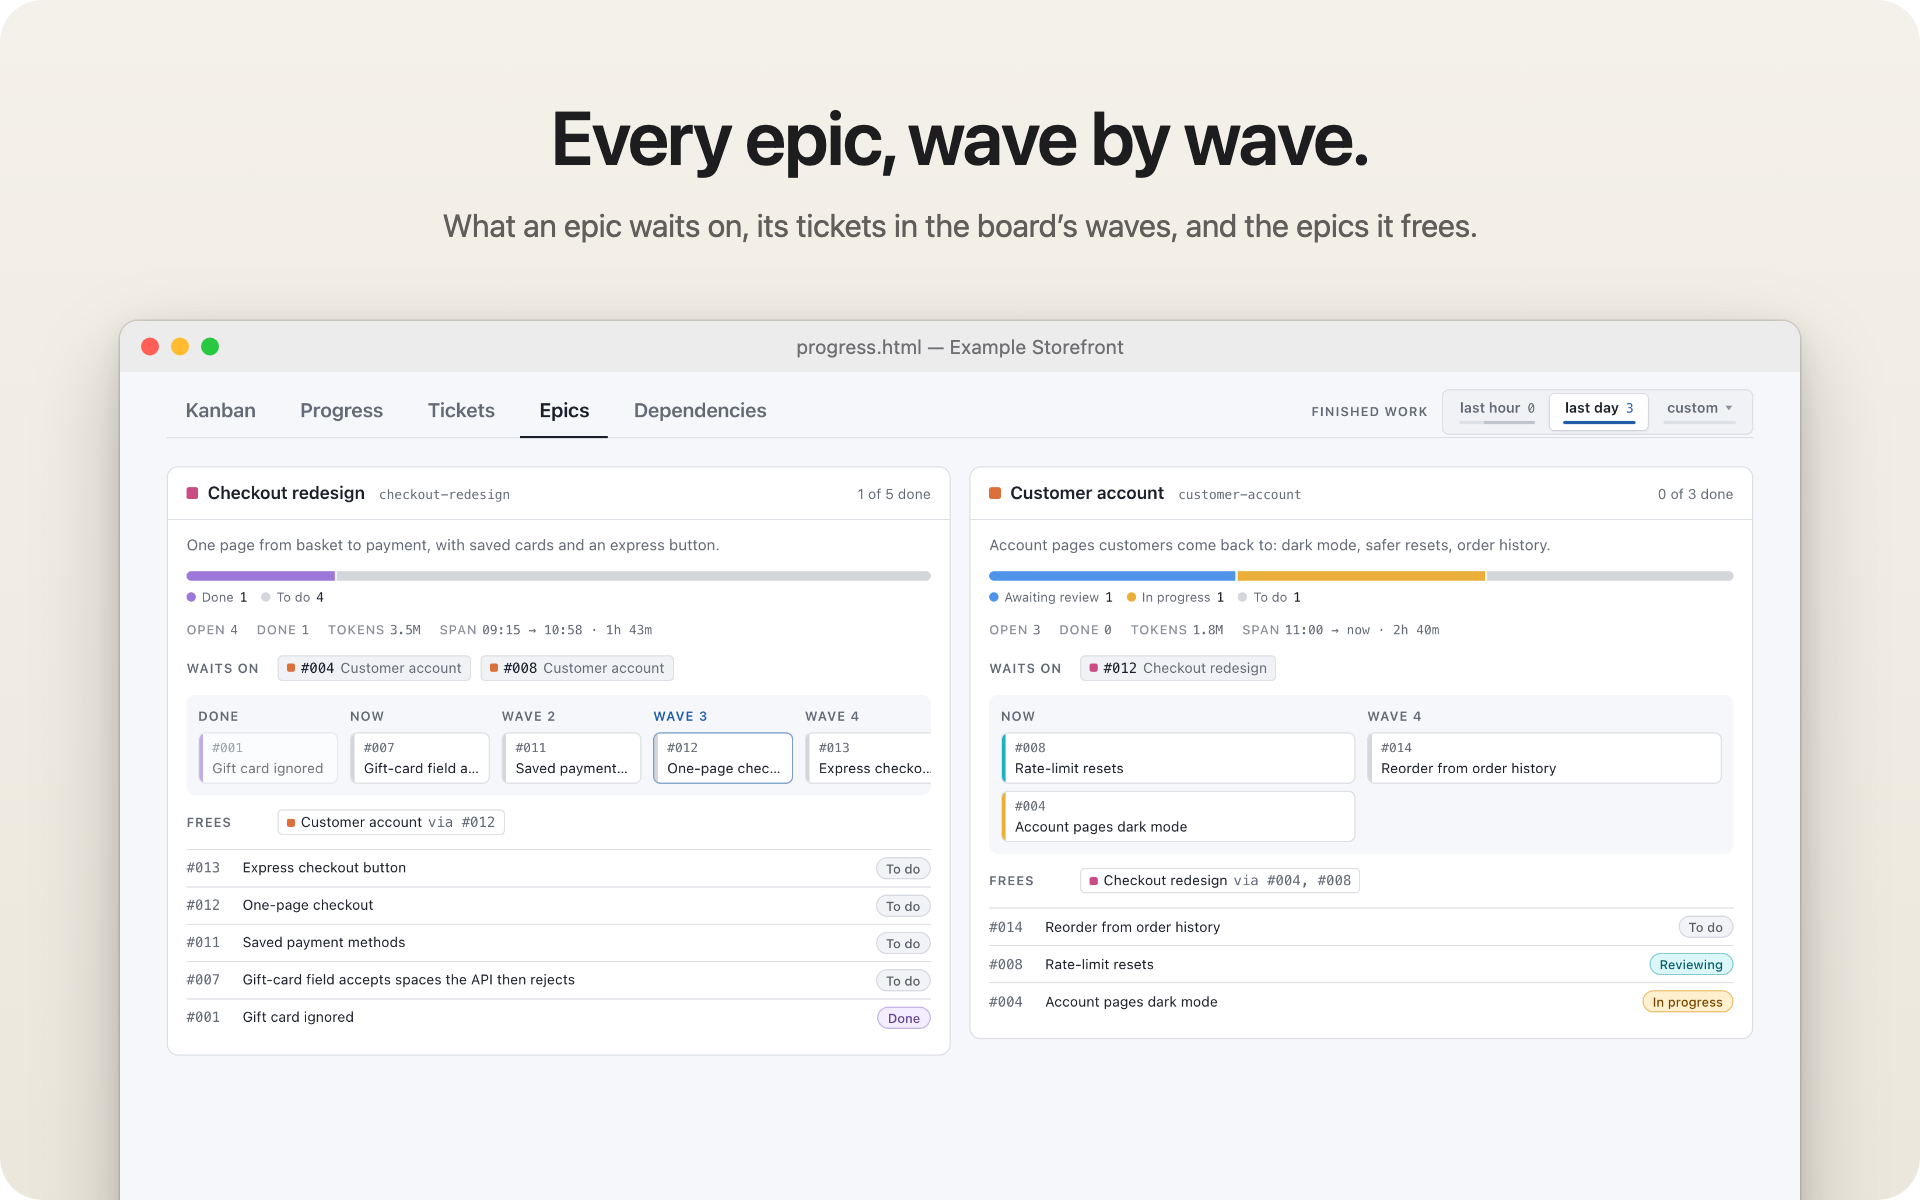
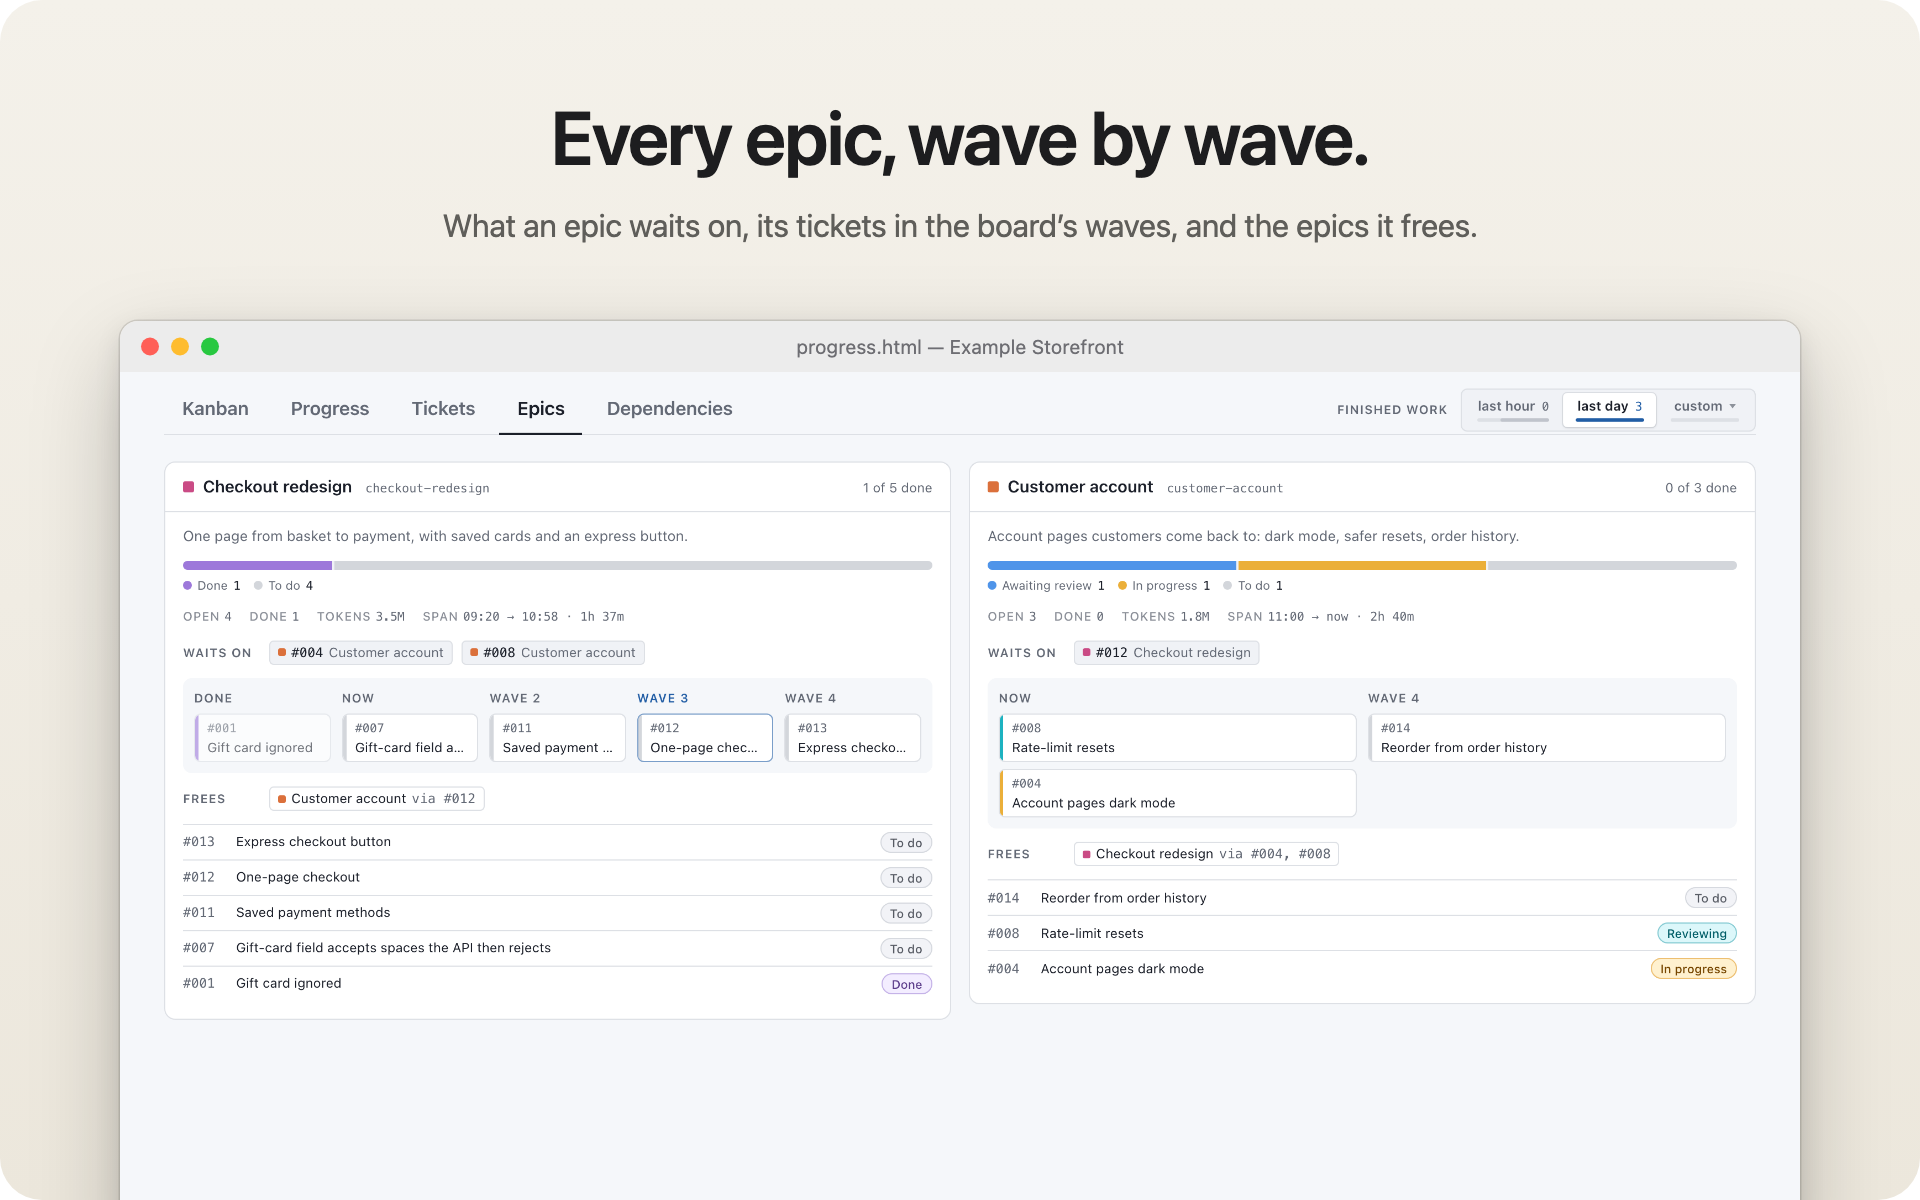
Shoot the README epic waves panel wide enough that every wave column fits its strip

diff --git a/.readme-graphics/compose.py b/.readme-graphics/compose.py
@@ -47,6 +47,8 @@ DEPENDENCIES_HOVERED_NODE_SELECTOR = '.ap-dependency-node[data-open-ticket="012"
 DEPENDENCIES_HOVER_SCRIPT = (f"(async () => {{ document.querySelector('{DEPENDENCIES_HOVERED_NODE_SELECTOR}').dispatchEvent(new PointerEvent('pointerover', {{ bubbles: true }}));"
                              " await new Promise((resolve) => setTimeout(resolve, 600)); return true; })()")
 EPICS_FIRST_CARD_SELECTOR = '#ap-epics > .ap-card:first-child'
+# Wide enough that the Checkout redesign card's waves strip holds all five 120px wave columns, so none sits behind its scroll edge.
+EPICS_VIEWPORT_WIDTH = 1520
 GRAPH_TOP_MARGIN = 13
 GRAPH_BOTTOM_PADDING = 24
 
@@ -184,7 +186,7 @@ def base_jobs(build):
         jobs.append({**common, 'name': f'dependencies-{theme}', 'output': f'{build}/shots/dependencies-{theme}.png', 'localStorageEntries': page_state(theme, 'dependencies'),
                      'actionScript': DEPENDENCIES_HOVER_SCRIPT, 'fullPage': True,
                      'measure': {'tabBar': '.ap-tab-bar', 'graph': '#ap-dependencies'}})
-        jobs.append({**common, 'name': f'epics-{theme}', 'output': f'{build}/shots/epics-{theme}.png', 'localStorageEntries': page_state(theme, 'epics'), 'fullPage': True,
+        jobs.append({**common, 'width': EPICS_VIEWPORT_WIDTH, 'name': f'epics-{theme}', 'output': f'{build}/shots/epics-{theme}.png', 'localStorageEntries': page_state(theme, 'epics'), 'fullPage': True,
                      'measure': {'tabBar': '.ap-tab-bar', 'firstCard': EPICS_FIRST_CARD_SELECTOR}})
         jobs.append({**common, 'name': f'detail-{theme}', 'output': f'{build}/shots/detail-{theme}.png', 'localStorageEntries': page_state(theme, 'progress'),
                      'actionScript': f"document.querySelector('#ap-task-{DETAIL_TASK_IDENTIFIER}').click(); true",
@@ -213,18 +215,22 @@ def crops(measurements):
         'kanban': [0, round(kanban['tabBar']['top'] - KANBAN_TOP_MARGIN), VIEWPORT_WIDTH, round(kanban['board']['bottom'] + KANBAN_BOTTOM_PADDING)],
         'kanban-waves': [0, round(kanban_waves['tabBar']['top'] - KANBAN_TOP_MARGIN), VIEWPORT_WIDTH, round(kanban_waves['board']['bottom'] + KANBAN_BOTTOM_PADDING)],
         'dependencies': [0, round(dependencies['tabBar']['top'] - GRAPH_TOP_MARGIN), VIEWPORT_WIDTH, round(dependencies['graph']['bottom'] + GRAPH_BOTTOM_PADDING)],
-        'epics': [0, round(epics['tabBar']['top'] - GRAPH_TOP_MARGIN), VIEWPORT_WIDTH, round(epics['firstCard']['bottom'] + GRAPH_BOTTOM_PADDING)],
+        'epics': [0, round(epics['tabBar']['top'] - GRAPH_TOP_MARGIN), EPICS_VIEWPORT_WIDTH, round(epics['firstCard']['bottom'] + GRAPH_BOTTOM_PADDING)],
         'dialog': [dialog_left, dialog_top, dialog_right, VIEWPORT_HEIGHT],
         'dialog-to-viewport': [dialog_left, dialog_top, dialog_right, VIEWPORT_HEIGHT],
         'heroHeight': hero_height,
     }
 
 
+def viewport_width_of(shot_image):
+    return EPICS_VIEWPORT_WIDTH if shot_image.startswith('epics-') else VIEWPORT_WIDTH
+
+
 def image_layer(layer_image, crop, window_width):
     left, top, right, _ = crop
     scale = window_width / (right - left)
     return (f'<img src="../shots/{layer_image}" style="position:absolute;left:{-left * scale}px;top:{-top * scale}px;'
-            f'width:{VIEWPORT_WIDTH * scale}px">')
+            f'width:{viewport_width_of(layer_image) * scale}px">')
 
 
 def window_markup(palette, content_height, layers_markup, bar_style='', title_style=''):
